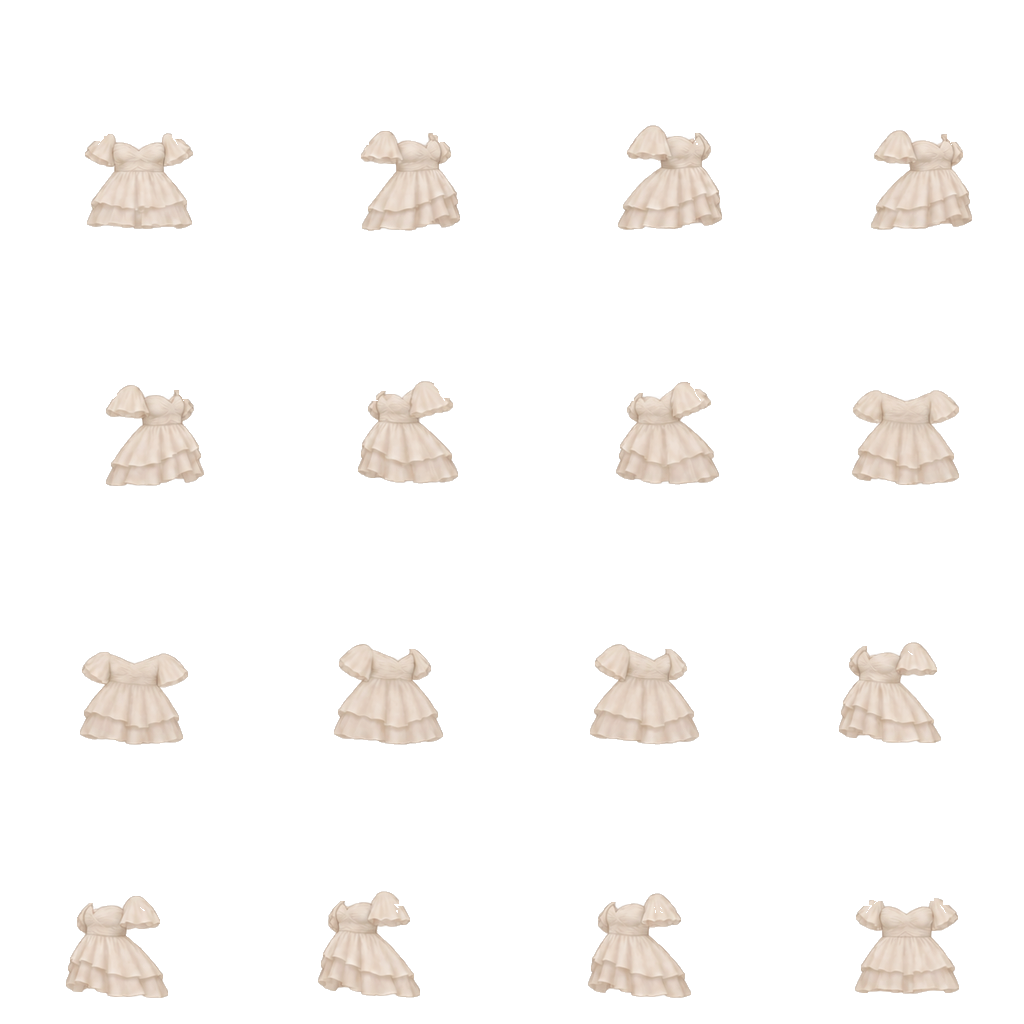
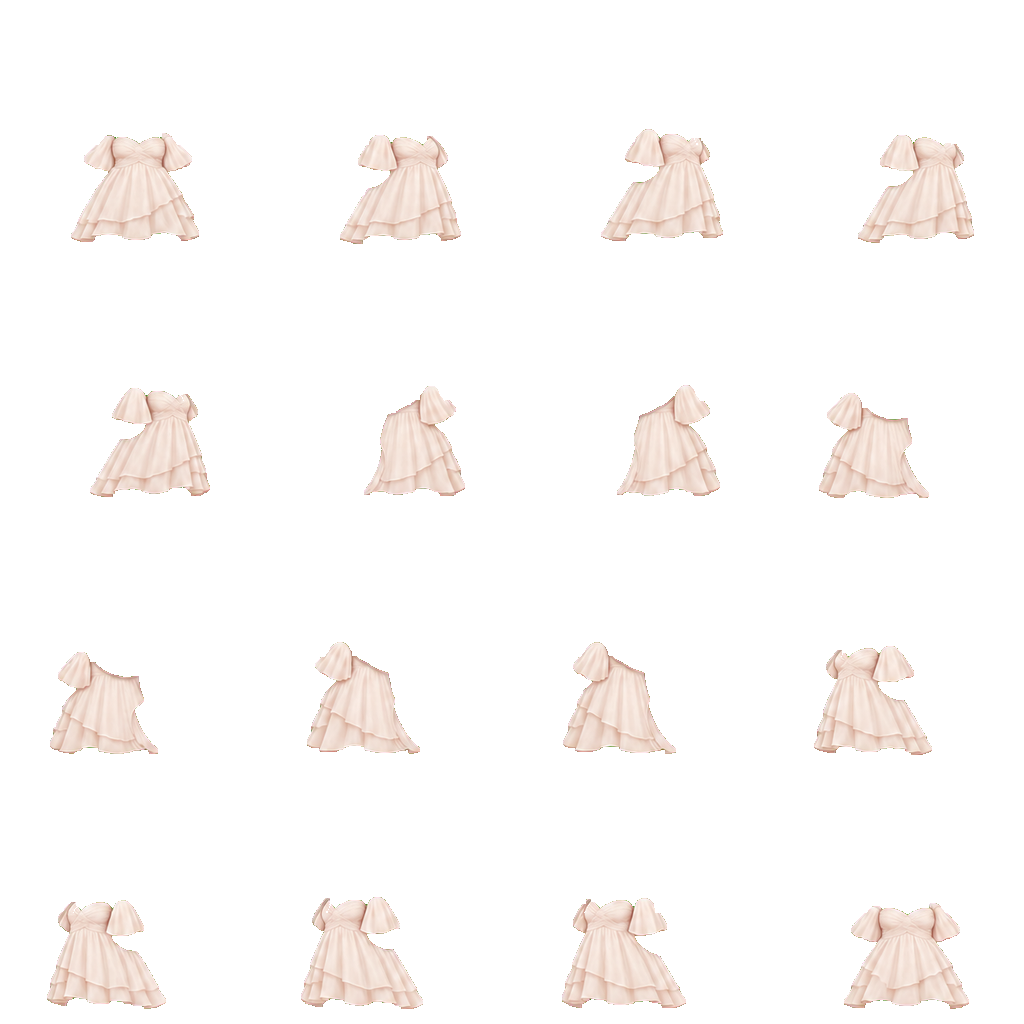
Rebuild ivory dress as manual-compliant long gown

diff --git a/elsie-model-review.html b/elsie-model-review.html
@@ -13,4 +13,4 @@
   <link rel="stylesheet" href="/pwa-ui.css">
   <script defer src="/pwa-register.js"></script><link rel="stylesheet" href="speaking-professional.css?v=20260908-refine7"><style>
 *{box-sizing:border-box}body{margin:0;background:#f5f0e8;color:#263c33;font:16px/1.6 system-ui}main{max-width:1120px;margin:auto;padding:30px 20px 60px}a{color:#276449}h1{font:500 clamp(30px,5vw,48px)/1.2 Georgia;margin:16px 0}header{max-width:760px}.tools{display:flex;gap:14px;flex-wrap:wrap;align-items:center;margin:22px 0}select,input,button{font:inherit;border:1px solid #b6c6b6;border-radius:8px;background:white;padding:8px}label{display:grid;gap:5px;font-size:14px}.names{display:grid;grid-template-columns:repeat(4,minmax(0,1fr));gap:12px;margin:18px 0}.names input,.names select{min-width:0;width:100%}.gallery{display:grid;grid-template-columns:repeat(3,1fr);gap:18px}figure{margin:0;text-align:center;background:#fffdf9;border:1px solid #d9dfd1;border-radius:18px;padding:15px}.gallery canvas{width:100%;max-width:280px;height:auto}figcaption{font-size:19px;font-weight:600}#selected{min-height:26px}button{cursor:pointer}#classroom{border-radius:18px;overflow:hidden;background:#e8ece3}.classroom-camera-controls{padding:10px}@media(max-width:650px){.names{grid-template-columns:repeat(2,minmax(0,1fr))}.gallery{gap:7px}figure{padding:5px}figcaption{font-size:16px}}
-</style></head><body><main><header><a href="speaking-professional.html">← DSE Professional Mode</a><h1>Eddy, Elsie & Phoebe.</h1><p>Eddy, Elsie and Phoebe with distinct coat colours, seated exam poses and speaking turns. Rotate the room, then select a character to see the others listen.</p></header><div class="tools"><label>Candidates<select id="count"><option>2</option><option selected>3</option><option>4</option></select></label><button id="apply" type="button">Update classroom</button><label><span>Exam seating</span><input id="seated" type="checkbox" checked></label><button id="stop-speaking" type="button">Pause speaking</button></div><div id="names" class="names"></div><div id="classroom" data-classroom-3d></div><p id="selected" role="status">Select a character or desk to mark the active speaker.</p><div class="tools"><label>Character angle<input id="angle" type="range" min="0" max="360" step="0.25" value="0"><output id="angle-label">0°</output></label></div><canvas id="mascot-gallery" style="display:block;width:100%;height:350px;border-radius:18px;background:#fffdf9"></canvas><div class="gallery"><figure><figcaption>Eddy</figcaption></figure><figure><figcaption>Elsie</figcaption></figure><figure><figcaption>Phoebe</figcaption></figure></div></main><script type="module" src="speaking-mascot-preview.mjs?v=20261002-ivory-facefix1"></script></body></html>
+</style></head><body><main><header><a href="speaking-professional.html">← DSE Professional Mode</a><h1>Eddy, Elsie & Phoebe.</h1><p>Eddy, Elsie and Phoebe with distinct coat colours, seated exam poses and speaking turns. Rotate the room, then select a character to see the others listen.</p></header><div class="tools"><label>Candidates<select id="count"><option>2</option><option selected>3</option><option>4</option></select></label><button id="apply" type="button">Update classroom</button><label><span>Exam seating</span><input id="seated" type="checkbox" checked></label><button id="stop-speaking" type="button">Pause speaking</button></div><div id="names" class="names"></div><div id="classroom" data-classroom-3d></div><p id="selected" role="status">Select a character or desk to mark the active speaker.</p><div class="tools"><label>Character angle<input id="angle" type="range" min="0" max="360" step="0.25" value="0"><output id="angle-label">0°</output></label></div><canvas id="mascot-gallery" style="display:block;width:100%;height:350px;border-radius:18px;background:#fffdf9"></canvas><div class="gallery"><figure><figcaption>Eddy</figcaption></figure><figure><figcaption>Elsie</figcaption></figure><figure><figcaption>Phoebe</figcaption></figure></div></main><script type="module" src="speaking-mascot-preview.mjs?v=20261002-ivory-gown2"></script></body></html>

diff --git a/sentence-structure.js b/sentence-structure.js
@@ -1,6 +1,6 @@
 import { createLessonLibrary } from "./lesson-library.mjs?v=20260908-loading1";
 import { installQuestionOrder, orderQuestions } from "./question-order.mjs?v=20260928-wrapped1";
-import { createExpressionMap } from "./common-expression-map.mjs?v=20261002-ivory-facefix1";
+import { createExpressionMap } from "./common-expression-map.mjs?v=20261002-ivory-gown2";
 import { SENTENCE_REALMS } from "./sentence-structure-realms.mjs?v=20260924-closet-all2";
 import { SENTENCE_MAP_LIMIT, sentenceMapLessons, sentenceMapCompleted } from "./sentence-structure-map.mjs?v=20260914-hotel3b";
 import { GOLDEN_EDDIE_ART, sentenceTrophyState, sentenceTrophyCollection, goldenEddieFigure, renderSentenceTrophyShelf, syncSentenceMapTrophies, syncSentenceTrophyCounter, syncSentenceTrophyControls, animateSentenceTrophy, awardDateMarkup } from "./sentence-structure-trophies.mjs?v=20260915-phoebe2";

diff --git a/common-expression-system.js b/common-expression-system.js
@@ -542,7 +542,7 @@ let expressionMapModule = null;
 function syncExpressionMap() {
   if (!HAS_LESSON_MAP || !SYSTEM.lessons.length || !state.user) return;
   expressionMapModule ||= Promise.all([
-    import("./common-expression-map.mjs?v=20261002-ivory-facefix1"),
+    import("./common-expression-map.mjs?v=20261002-ivory-gown2"),
     SYSTEM_KEY === "business-speaking" ? import("./common-expression-airport.mjs?v=20260915-lounge3").then(async module => { await module.prepareAirport(); return module; }) :
     SYSTEM_KEY === "written" ? import("./common-expression-garden.mjs?v=20260912-garden1") :
     SYSTEM_KEY === "rhetorical-speaking" ? import("./common-expression-coast.mjs?v=20260912-coast2") :

diff --git a/phrasal-verb-system.js b/phrasal-verb-system.js
@@ -10,7 +10,7 @@ import { createHorseyTrophies } from './horsey-trophies.mjs?v=20260915-phoebe2';
  * phrases are highlighted only when content explicitly supplies `highlight` or
  * `highlights` metadata.
  */
-import { createExpressionMap } from './common-expression-map.mjs?v=20261002-ivory-facefix1';
+import { createExpressionMap } from './common-expression-map.mjs?v=20261002-ivory-gown2';
 import { createPhrasalJourney, phrasalJourneyLessons, phrasalMapCompleted, PHRASAL_MAP_LIMIT } from './phrasal-verb-journey.mjs?v=20260914-bakery4';
 
 let phrasalMap = null;

diff --git a/writing-practice.html b/writing-practice.html
@@ -3193,7 +3193,7 @@
   <script src="language-learning.js?v=20260914-six-languages-1"></script>
   <link rel="stylesheet" href="language-learning.css?v=20260914-six-languages-1">
   <link rel="stylesheet" href="writing-chess-map.css?v=20260915-noirceleste1">
-  <script>window.writingChessMapReady = import("./writing-chess-map.mjs?v=20261002-ivory-facefix1");</script>
+  <script>window.writingChessMapReady = import("./writing-chess-map.mjs?v=20261002-ivory-gown2");</script>
 </head>
 <body>
   <div class="page-loader" data-page-loader aria-hidden="true">

diff --git a/proverb-system.js b/proverb-system.js
@@ -1,5 +1,5 @@
 import {PROVERB_BLACK_SAND} from './proverb-black-sand.mjs?v=20260915-black3';
-import { createExpressionMap } from './common-expression-map.mjs?v=20261002-ivory-facefix1';
+import { createExpressionMap } from './common-expression-map.mjs?v=20261002-ivory-gown2';
 import { createHorseyTrophies } from './horsey-trophies.mjs?v=20260915-phoebe2';
 import { installQuestionOrder, orderQuestions } from "./question-order.mjs?v=20260908-loading1";
 /*

diff --git a/tools/mascot-art/wardrobe/girls-ivory-tiered-dress/README.md b/tools/mascot-art/wardrobe/girls-ivory-tiered-dress/README.md
@@ -1,12 +1,12 @@
-# Ivory tiered flutter-sleeve dress
+# Ivory asymmetric chiffon gown
 
-`ivory-tiered-dress` is a full-body garment fitted independently to Celeste, Phoebe and Elsie. It covers the top and lower-body clothing areas while leaving headwear, accessories and shoes available.
+`ivory-tiered-dress` is the stable item ID for a floor-length, flutter-sleeve asymmetric chiffon gown fitted independently to Celeste, Phoebe and Elsie. It covers the top and lower-body clothing areas while leaving headwear, accessories and shoes available.
 
 ## Asset contract
 
 - `design-reference.png` is the user-supplied garment reference.
-- `*-fit.png` are built-in ImageGen character fitting references; `celeste-fit-v2.png` is the corrected visual fitting reference with its neckline below every muzzle/face frame.
-- `*-overlay-source.png` are built-in ImageGen garment-isolation sources. Celeste's runtime asset uses the corrected `celeste-overlay-source-v2.png` because her pale mane and coat cannot be separated reliably from the ivory fabric by colour alone.
+- `*-fit-v3-long.png` are the built-in ImageGen long-gown fitting references made against each canonical 16-view atlas.
+- `*-chroma-v3-long.png` are the character-specific chroma-isolated garment sources. They preserve visible mane, tail, foreleg and hoof occlusion as holes while avoiding same-colour confusion with Celeste's pale coat.
 - `ivory-tiered-dress-display.png` is the transparent inventory product source.
 - `node tools/prepare-girls-ivory-tiered-dress.cjs` removes generation-edge noise and produces three independent registered 1024 x 1024 lossless WebP overlays.
 - Runtime overlays live at `assets/speaking-system/cosmetics/{character}/ivory-tiered-dress.webp`.
@@ -15,4 +15,4 @@ The item uses slot `fullBody` with coverage `top` and `lower`. Equipping it clea
 
 ## QA
 
-Inspect every cell in each `qa-*-composite.jpg`. Confirm that the canonical face, eyes, muzzle, mane, tail and hooves remain intact; the ruched bodice, flutter sleeves and tiered ivory skirt must remain registered in all sixteen directions. The extractor treats Celeste's canonical head and dark facial features as hard occlusion masks, including after mask repair, so a shifted generated neckline cannot cover them.
+Inspect every cell in `qa-*-composite.jpg` (dark/open), `qa-*-light.jpg` (light/open) and `qa-*-blink.jpg` (midtone/blink). The mandatory `qa-*-3d.jpg` sheets render the sixteen metadata-defined directions through the real Three.js standing renderer; use these rather than assuming physical atlas row order. Confirm the canonical face, eyes, muzzle, mane, tail, forelegs and hooves remain intact; the ruched bodice, flutter sleeves and ankle-length asymmetric skirt must remain registered in all sixteen directions. The extractor re-rejects chroma after mask repair and treats Celeste's canonical head and dark facial features as hard occlusion masks.
